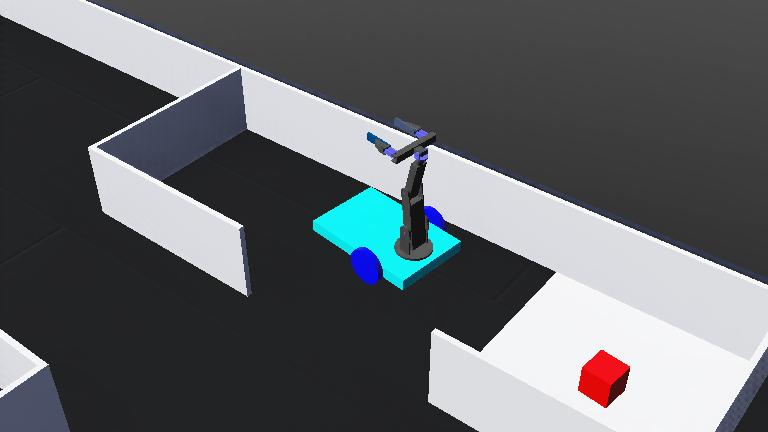
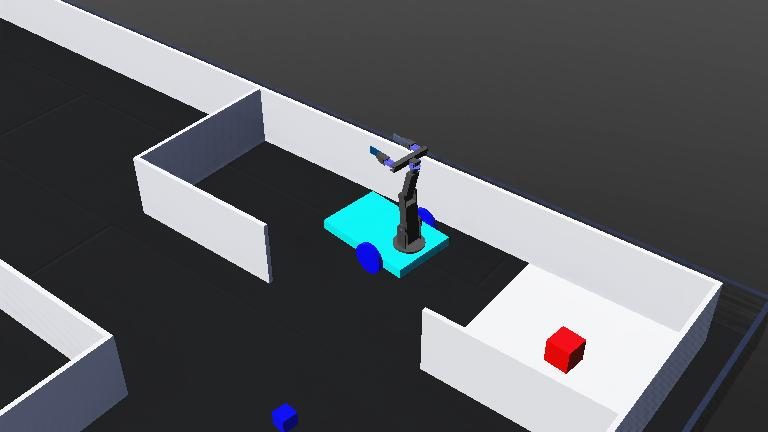
Successful pickup😁

diff --git a/SLRC Arena/controllers/my_controller/SuperArm.py b/SLRC Arena/controllers/my_controller/SuperArm.py
@@ -45,7 +45,7 @@ class Armstatemachine:
         if self.state ==4:
             self.arm.bringup()
         if self.state ==5:
-            self.arm.putinback(-11,-0.6,-1.2,0,-1.3)  #"""Put in back"""
+            self.arm.putinback(-11,-0.7,-1,0,-1.47)  #"""Put in back"""
         if self.state==6:
             self.state=-1
             return True

diff --git a/SLRC Arena/controllers/my_controller/PositionSensors.py b/SLRC Arena/controllers/my_controller/PositionSensors.py
@@ -97,7 +97,7 @@ class Positions:
     
     def isPlaced(self):
         arr=self.positionvalues()
-        real_values=[-11,-0.6,-1.2,0,-1.3]
+        real_values=[-11,-0.7,-1,0,-1.47]
 
         print("This is printing",arr,real_values)
         for realv,arrv in zip(real_values,arr):

diff --git a/SLRC Arena/controllers/my_controller/ArmController.py b/SLRC Arena/controllers/my_controller/ArmController.py
@@ -94,7 +94,7 @@ class armcontroll:
         self.pitchcontrol(pitch_val)
     
     def takeelbow_pitch(self):
-        self.elbowcontrol(1.5)
+        self.elbowcontrol(1.55)
         self.pitchcontrol(-1.5)
 
 
